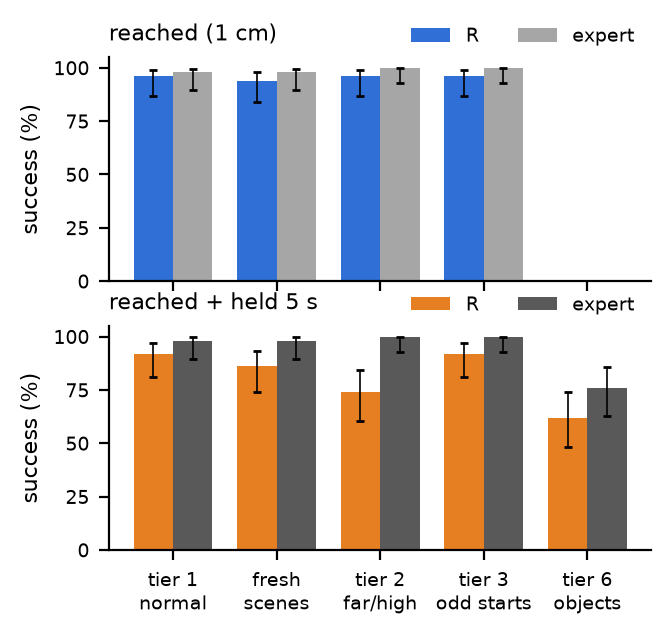
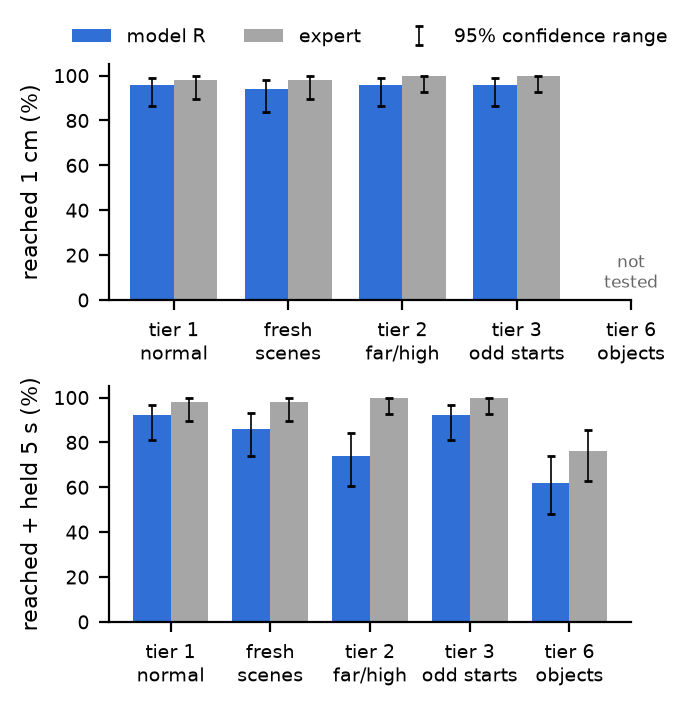
Clearer report figures: legends for dots and confidence ranges, arm vs base regrouped

diff --git a/comp0245_bc/report_figures.py b/comp0245_bc/report_figures.py
@@ -50,19 +50,17 @@ MODEL_FAMILIES = [
 
 # The same recipe trained with three random seeds: is the result repeatable?
 SEED_FAMILIES = [
-    ("P (hold data)", ["vP_hold", "vP_hold_s1", "vP_hold_s2"]),
-    ("R (+ arm IK)", ["vR_ik", "vR_ik_s1", "vR_ik_s2"]),
+    ("model P\n(MLP + hold data)", ["vP_hold", "vP_hold_s1", "vP_hold_s2"]),
+    ("model R\n(P + arm IK inputs)", ["vR_ik", "vR_ik_s1", "vR_ik_s2"]),
 ]
 
-# Who drives what, all judged on "reached + held 5 s": (results name, label)
+# Who drives what, judged on "reached + held 5 s". One group per arm driver:
+# (label, results name with the expert driving the base, results name with the same driver on the base)
 # _mlp_arm = expert drives the base, our model the arm; _mlp_wheels = the reverse.
 ARM_VS_BASE = [
-    ("expert", "expert arm + expert base"),
-    ("vP_hold_mlp_wheels", "expert arm + P base"),
-    ("vP_hold_mlp_arm", "P arm + expert base"),
-    ("vP_hold", "P arm + P base"),
-    ("vR_ik_mlp_arm", "R arm + expert base"),
-    ("vR_ik", "R arm + R base"),
+    ("expert", "expert", "vP_hold_mlp_wheels"),
+    ("model P", "vP_hold_mlp_arm", "vP_hold"),
+    ("model R", "vR_ik_mlp_arm", "vR_ik"),
 ]
 
 # Test sets for the generalisation figure: (label, tier, results folder)
@@ -73,7 +71,7 @@ TEST_SETS = [
     ("tier 3\nodd starts", 3, "results50"),
     ("tier 6\nobjects", 6, "results50"),
 ]
-GENERAL_MODELS = [("vR_ik", "R"), ("expert", "expert")]
+GENERAL_MODELS = [("vR_ik", "model R"), ("expert", "expert")]
 
 # ---- One look for every figure: IEEE column width (3.5 in), text >= 8 pt ----------------------
 plt.rcParams.update({"font.size": 8, "axes.titlesize": 8, "legend.fontsize": 7,
@@ -97,7 +95,10 @@ def success(model, tier=1, hold=False, results="results50"):
     return sum(r["success"] == "True" for r in rows), len(rows)
 
 
-def bars(ax, x, counts, color, width, label, horizontal=False):
+CI_LABEL = "95% confidence range"
+
+
+def bars(ax, x, counts, color, width, label, ci_label=None):
     """Bars in % with Wilson 95% error bars; a model without that result gets no bar."""
     have = [(xi, c) for xi, c in zip(x, counts) if c is not None]
     if not have:
@@ -105,13 +106,20 @@ def bars(ax, x, counts, color, width, label, horizontal=False):
     xs = [xi for xi, _ in have]
     pct = np.array([100 * k / n for _, (k, n) in have])
     lo, hi = np.array([wilson(k, n) for _, (k, n) in have]).T * 100
-    err = [pct - lo, hi - pct]
-    if horizontal:
-        ax.barh(xs, pct, width, color=color, label=label)
-        ax.errorbar(pct, xs, xerr=err, fmt="none", ecolor="black", elinewidth=0.6, capsize=1.5)
-    else:
-        ax.bar(xs, pct, width, color=color, label=label)
-        ax.errorbar(xs, pct, yerr=err, fmt="none", ecolor="black", elinewidth=0.6, capsize=1.5)
+    ax.bar(xs, pct, width, color=color, label=label)
+    ax.errorbar(xs, pct, yerr=[pct - lo, hi - pct], fmt="none", ecolor="black", elinewidth=0.6,
+                capsize=1.5, label=ci_label)
+
+
+def missing(ax, x, counts, y=3, text="not\ntested"):
+    """Write 'not tested' where a result does not exist, so it is not read as 0%."""
+    for xi, c in zip(x, counts):
+        if c is None:
+            ax.text(xi, y, text, ha="center", va="bottom", fontsize=6, color="0.4")
+
+
+def legend_above(ax, ncol=2):
+    ax.legend(loc="lower center", bbox_to_anchor=(0.5, 1.0), ncol=ncol, frameon=False)
 
 
 def runs_plot(families, group, name):
@@ -119,19 +127,20 @@ def runs_plot(families, group, name):
     x = np.arange(len(families))
     w = 0.4
     fig, ax = plt.subplots(figsize=(COL_W, COL_H))
-    for dx, hold, color, label in ((-w / 2, False, REACHED, "reached (1 cm)"),
-                                   (w / 2, True, HELD, "reached + held 5 s")):
+    dot_label = "one training run (seed)"
+    for dx, hold, color, label in ((-w / 2, False, REACHED, "reached (1 cm), mean"),
+                                   (w / 2, True, HELD, "reached + held 5 s, mean")):
         for xi, (_, runs) in zip(x + dx, families):
             pct = [100 * k / n for k, n in filter(None, (success(r, hold=hold) for r in runs))]
             if not pct:
                 continue
             ax.bar(xi, np.mean(pct), w, color=color, label=label)
-            ax.scatter([xi] * len(pct), pct, s=8, color="black", zorder=3)
-            label = None  # legend entry only once per colour
+            ax.scatter([xi] * len(pct), pct, s=8, color="black", zorder=3, clip_on=False, label=dot_label)
+            label = dot_label = None  # legend entry only once each
     ax.set_xticks(x, [lab for lab, _ in families])
     ax.set_ylabel("success on 50 tier-1 scenes (%)")
-    ax.set_ylim(0, 100)
-    ax.legend(loc="lower center", bbox_to_anchor=(0.5, 1.0), ncol=2, frameon=False)
+    ax.set_ylim(0, 105)
+    legend_above(ax)
     save(fig, group, name)
 
 
@@ -149,12 +158,16 @@ def fig_ladder():
     x = np.arange(len(LADDER))
     w = 0.4
     fig, ax = plt.subplots(figsize=(COL_W, COL_H))
-    bars(ax, x - w / 2, [success(m) for m, _ in LADDER], REACHED, w, "reached (1 cm)")
-    bars(ax, x + w / 2, [success(m, hold=True) for m, _ in LADDER], HELD, w, "reached + held 5 s")
+    held = [success(m, hold=True) for m, _ in LADDER]
+    bars(ax, x - w / 2, [success(m) for m, _ in LADDER], REACHED, w, "reached (1 cm)", CI_LABEL)
+    bars(ax, x + w / 2, held, HELD, w, "reached + held 5 s")
+    first = next(i for i, c in enumerate(held) if c is not None)   # the hold test starts here
+    ax.text(1.5, 55, f"held 5 s not tested\nbefore {LADDER[first][1].split()[0]}", ha="center",
+            fontsize=6, color="0.4")
     ax.set_xticks(x, [lab for _, lab in LADDER], rotation=45, ha="right")
     ax.set_ylabel("success on 50 tier-1 scenes (%)")
     ax.set_ylim(0, 105)
-    ax.legend(loc="upper left", frameon=False)
+    legend_above(ax)
     save(fig, "story", "ladder")
 
 
@@ -167,13 +180,19 @@ def fig_seeds():
 
 
 def fig_arm_vs_base():
-    """Swap our model's arm or base for the expert's: which half fails to hold still?"""
-    y = np.arange(len(ARM_VS_BASE))[::-1]
-    fig, ax = plt.subplots(figsize=(COL_W, 2.0))
-    bars(ax, y, [success(m, hold=True) for m, _ in ARM_VS_BASE], HELD, 0.6, None, horizontal=True)
-    ax.set_yticks(y, [lab for _, lab in ARM_VS_BASE])
-    ax.set_xlabel("reached + held 5 s, tier 1 (%)")
-    ax.set_xlim(0, 100)
+    """Swap test: does success follow whoever drives the ARM, whoever drives the base doesn't matter?"""
+    x = np.arange(len(ARM_VS_BASE))
+    w = 0.38
+    fig, ax = plt.subplots(figsize=(COL_W, COL_H))
+    bars(ax, x - w / 2, [success(m, hold=True) for _, m, _ in ARM_VS_BASE], EXPERT, w,
+         "base driven by the expert")
+    bars(ax, x + w / 2, [success(m, hold=True) for _, _, m in ARM_VS_BASE], HELD, w,
+         "base driven by our model P / R", CI_LABEL)
+    ax.set_xticks(x, [lab for lab, _, _ in ARM_VS_BASE])
+    ax.set_xlabel("who drives the arm")
+    ax.set_ylabel("reached + held 5 s, tier 1 (%)")
+    ax.set_ylim(0, 105)
+    legend_above(ax, ncol=1)
     save(fig, "diagnosis", "arm_vs_base")
 
 
@@ -181,17 +200,18 @@ def fig_generalisation():
     """Model R vs the expert on each test set; top = reached, bottom = reached + held 5 s."""
     x = np.arange(len(TEST_SETS))
     w = 0.38
-    fig, axes = plt.subplots(2, 1, figsize=(COL_W, 3.2), sharex=True)
-    for ax, hold, title in ((axes[0], False, "reached (1 cm)"), (axes[1], True, "reached + held 5 s")):
-        for (model, label), dx, color in zip(GENERAL_MODELS, (-w / 2, w / 2),
-                                             (HELD if hold else REACHED, EXPERT_HELD if hold else EXPERT)):
-            counts = [success(model, tier, hold, folder) for _, tier, folder in TEST_SETS]
-            bars(ax, x + dx, counts, color, w, label)
+    fig, axes = plt.subplots(2, 1, figsize=(COL_W, 3.6))
+    for ax, hold, ylabel in ((axes[0], False, "reached 1 cm (%)"), (axes[1], True, "reached + held 5 s (%)")):
+        counts = {}
+        for (model, label), dx, color in zip(GENERAL_MODELS, (-w / 2, w / 2), (REACHED, EXPERT)):
+            counts[model] = [success(model, tier, hold, folder) for _, tier, folder in TEST_SETS]
+            bars(ax, x + dx, counts[model], color, w, label, CI_LABEL if model == "expert" else None)
+        missing(ax, x, [None if all(c[i] is None for c in counts.values()) else 1 for i in x])
+        ax.set_xticks(x, [lab for lab, _, _ in TEST_SETS])
         ax.set_ylim(0, 105)
-        ax.set_ylabel("success (%)")
-        ax.set_title(title, loc="left")
-        ax.legend(loc="lower right", bbox_to_anchor=(1.0, 0.97), frameon=False, ncol=2)
-    axes[1].set_xticks(x, [lab for lab, _, _ in TEST_SETS])
+        ax.set_ylabel(ylabel)
+    legend_above(axes[0], ncol=3)
+    fig.tight_layout(h_pad=0.8)
     save(fig, "generalisation", "generalisation")
 
 
